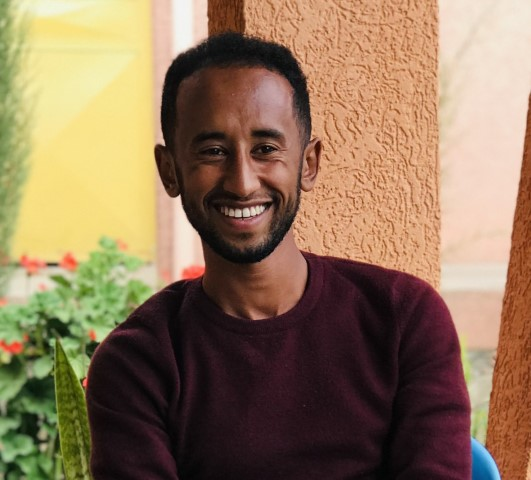
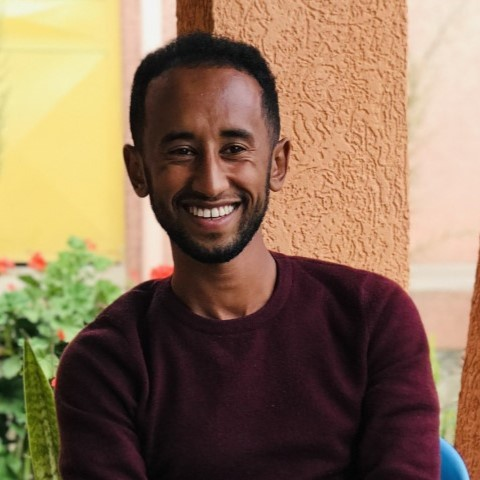
made styling updates

diff --git a/frontend-next/src/components/meet-the-team.js b/frontend-next/src/components/meet-the-team.js
@@ -1,5 +1,6 @@
 import Link from 'next/link'
 import Image from 'next/image'
+import { BsLinkedin } from 'react-icons/bs'
 
 function MeetTeam() {
   return (
@@ -24,7 +25,7 @@ function MeetTeam() {
           <div className="items-center bg-veryLightGray hover:bg-veryPaleRed dark:bg-gray-700 dark:hover:bg-gray-600 rounded-lg shadow sm:flex ">
             <div>
               <Image
-                className="w-full rounded-lg sm:rounded-none sm:rounded-l-lg"
+                className="w-full rounded-full"
                 src="/img/team/mikias2.jpg"
                 alt="Mikias Worash"
                 width={200}
@@ -33,12 +34,12 @@ function MeetTeam() {
             </div>
             <div className="p-5 ">
               <h3 className="text-xl font-bold">
-                <a href="#">Mikias Worash</a>
+                <a href="#">Mikias W.</a>
               </h3>
-              <span>CEO & Web Developer</span>
+              <span>MERN Stack Instructor </span>
               <p className="mt-3 mb-4 text-darkGrayishBlue dark:text-gray-300">
-                Develop strategic partnerships to expand reach and increase
-                enrollment
+                Experienced MERN instructor who is dedicated to guiding students
+                through the complexities of building full-stack web apps.
               </p>
               <ul className="flex space-x-4 sm:mt-0">
                 <li>
@@ -47,11 +48,7 @@ function MeetTeam() {
                     className="text-gray-500"
                     target="_blank"
                   >
-                    <img
-                      src="img/linkedin-svgrepo-com.svg"
-                      alt=""
-                      className="w-5 h-4"
-                    />
+                    <BsLinkedin className="w-5 h-5" />
                   </a>
                 </li>
                 <li>
@@ -97,7 +94,7 @@ function MeetTeam() {
           <div className="items-center bg-veryLightGray hover:bg-veryPaleRed dark:bg-gray-700 dark:hover:bg-gray-600 rounded-lg shadow sm:flex ">
             <div>
               <Image
-                className="w-full rounded-lg sm:rounded-none sm:rounded-l-lg"
+                className="w-full rounded-full"
                 src="/img/team/henok.jpg"
                 alt="Henok Setegne"
                 width={200}
@@ -106,21 +103,17 @@ function MeetTeam() {
             </div>
             <div className="p-5">
               <h3 className="text-xl font-bold">
-                <a href="#">Henok Setegne</a>
+                <a href="#">Henok S.</a>
               </h3>
-              <span>CTO & Web Developer</span>
+              <span>Data Science Instructor</span>
               <p className="mt-3 mb-4 text-darkGrayishBlue dark:text-gray-300">
-                Implement new technologies to enhance student learning
-                experience
+                Accomplished data science instructor with a wealth of experience
+                in the field, with both engaging and interactive style.
               </p>
               <ul className="flex space-x-4 sm:mt-0">
                 <li>
                   <a href="#" className="text-gray-500" target="_blank">
-                    <img
-                      src="img/linkedin-svgrepo-com.svg"
-                      alt=""
-                      className="w-5 h-4"
-                    />
+                    <BsLinkedin className="w-5 h-5" />
                   </a>
                 </li>
                 <li>
@@ -158,27 +151,24 @@ function MeetTeam() {
           <div className="items-center bg-veryLightGray hover:bg-veryPaleRed dark:bg-gray-700 dark:hover:bg-gray-600 rounded-lg shadow sm:flex ">
             <div>
               <img
-                class="w-full rounded-lg sm:rounded-none sm:rounded-l-lg"
+                class="w-full rounded-full"
                 src="https://flowbite.s3.amazonaws.com/blocks/marketing-ui/avatars/michael-gouch.png"
                 alt="Khalil Abdurehman"
               />
             </div>
             <div className="p-5">
               <h3 className="text-lg font-bold">
-                <a href="#">Khalil Abdurehman</a>
+                <a href="#">Khalil A.</a>
               </h3>
-              <span>COO & Web Developer</span>
+              <span>Python Instructor</span>
               <p className="mt-3 mb-4 text-darkGrayishBlue dark:text-gray-300">
-                Streamline operations to improve efficiency and reduce costs
+                Skilled and experienced instructor with extensive knowledge in
+                Python programming language.
               </p>
               <ul className="flex space-x-4 sm:mt-0">
                 <li>
                   <a href="#" className="text-gray-500" target="_blank">
-                    <img
-                      src="img/linkedin-svgrepo-com.svg"
-                      alt=""
-                      className="w-5 h-4"
-                    />
+                    <BsLinkedin className="w-5 h-5" />
                   </a>
                 </li>
                 <li>
@@ -216,28 +206,24 @@ function MeetTeam() {
           <div className="items-center bg-veryLightGray hover:bg-veryPaleRed dark:bg-gray-700 dark:hover:bg-gray-600 rounded-lg shadow sm:flex ">
             <div>
               <img
-                className="w-full rounded-lg sm:rounded-none sm:rounded-l-lg"
+                className="w-full rounded-full"
                 src="https://flowbite.s3.amazonaws.com/blocks/marketing-ui/avatars/michael-gouch.png"
                 alt="Ismail"
               />
             </div>
             <div className="p-5">
               <h3 className="text-lg font-bold">
-                <a href="#">Ismail Yimer</a>
+                <a href="#">Ismail Y.</a>
               </h3>
-              <span>CFO & Web Developer</span>
+              <span>UI/UX & MERN Instructor</span>
               <p className="mt-3 mb-4 text-darkGrayishBlue dark:text-gray-300">
-                Maximizing revenue and profitability while maintaining quality
-                education standards
+                Highly skilled UI/UX instructor who has a deep understanding of
+                how to create intuitive and user-friendly interfaces.
               </p>
               <ul className="flex space-x-4 sm:mt-0">
                 <li>
                   <a href="#" className="text-gray-500" target="_blank">
-                    <img
-                      src="img/linkedin-svgrepo-com.svg"
-                      alt=""
-                      className="w-5 h-4"
-                    />
+                    <BsLinkedin className="w-5 h-5" />
                   </a>
                 </li>
                 <li>

diff --git a/frontend-next/src/components/layout/navbar.js b/frontend-next/src/components/layout/navbar.js
@@ -5,9 +5,9 @@ import CourseContext from '../../context/CourseContext'
 import { FaSchool } from 'react-icons/fa'
 import { BsSearch } from 'react-icons/bs'
 import Link from 'next/link'
-import Alert from './Alert'
 import { MoonIcon, SunIcon } from '@heroicons/react/24/solid'
 import { useTheme } from 'next-themes'
+import { toast } from 'react-toastify'
 
 export default function Navbar() {
   const [mounted, setMounted] = useState(false)
@@ -26,7 +26,6 @@ export default function Navbar() {
     coursesData,
     searchCourses,
     clearResults,
-    setAlert,
   } = useContext(CourseContext)
 
   const handleChange = (e) => {
@@ -37,7 +36,7 @@ export default function Navbar() {
     e.preventDefault()
 
     if (courseTitle === '' && coursesData.success == null) {
-      setAlert('Please enter a title', 'error')
+      toast.error('Please enter a title')
     } else if (coursesData.count > 0 || coursesData.success === false) {
       clearResults()
     } else {
@@ -69,8 +68,8 @@ export default function Navbar() {
   }
 
   return (
-    <div className="fixed top-0 mb-80 mx-auto bg-veryLightGray border-b-solid border-b border-b-blue-100 dark:bg-veryDarkBlue dark:border-b-gray-600 w-full z-50 bg-opacity-95 dark:bg-opacity-90">
-      <nav className="relative container mx-auto p-2 lg:p-4">
+    <div className="fixed top-0 left-0 right-0 mb-80  bg-veryLightGray border-b-solid border-b border-b-blue-100 dark:bg-veryDarkBlue dark:border-b-gray-600 z-50 bg-opacity-95 dark:bg-opacity-90">
+      <nav className="relative w-full lg:mx-4 p-2 lg:p-4">
         {/* Flex Container */}
         <div className="flex items-center justify-between">
           {/*  Logo */}
@@ -79,7 +78,7 @@ export default function Navbar() {
             <FaSchool className="inline pr-2 text-3xl" />
             <Link
               href={'/'}
-              className="text-lg font-bold align-middle inline"
+              className="text-lg md:text-2xl font-bold align-middle inline"
               onClick={clearResults}
             >
               m-bootcamp
@@ -104,11 +103,10 @@ export default function Navbar() {
           {/* Search Form  */}
           <form onSubmit={handleSubmit}>
             <div className="hidden lg:flex space-x-3 relative">
-              <Alert />
-              <BsSearch className="absolute left-56 top-3" />
+              <BsSearch className="absolute left-10 top-3" />
               <input
                 type="text"
-                className="flex-1 px-3 rounded-lg lg:w-72 text-center focus:outline-none border-2 border-gray-300 dark:bg-gray-700 dark:border-gray-600"
+                className="px-3 rounded-lg lg:w-72 text-center focus:outline-none border-2 border-gray-300 dark:bg-gray-700 dark:border-gray-600"
                 placeholder="Search for Courses"
                 value={courseTitle}
                 onChange={handleChange}
@@ -127,7 +125,7 @@ export default function Navbar() {
           </form>
 
           {/*  Menu Items*/}
-          <div className="hidden lg:flex space-x-6">
+          <div className="hidden lg:flex space-x-6 mr-16">
             <a href="/#featured-courses" className="hover:text-primary-700">
               Courses
             </a>
@@ -249,7 +247,7 @@ export default function Navbar() {
       {currentPath == '/' ? (
         <div>
           <form onSubmit={handleSubmit}>
-            <div className="text-center lg:hidden space-x-3">
+            <div className="text-center lg:hidden mb-4 space-x-3">
               <input
                 type="text"
                 className="flex-1 px-3 py-2 rounded-lg md:w-64 text-center focus:outline-none border-2 border-gray-300 dark:bg-gray-700 dark:border-gray-600"
@@ -269,9 +267,6 @@ export default function Navbar() {
               )}
             </div>
           </form>
-          <div className="max-w-md mx-auto lg:hidden">
-            <Alert />
-          </div>
         </div>
       ) : (
         ''

diff --git a/frontend-next/src/components/layout/footer.js b/frontend-next/src/components/layout/footer.js
@@ -4,6 +4,11 @@ import Link from 'next/link'
 import { toast } from 'react-toastify'
 import { useState } from 'react'
 
+import { BsGithub } from 'react-icons/bs'
+import { BsLinkedin } from 'react-icons/bs'
+import { BsTwitter } from 'react-icons/bs'
+import { BsTelegram } from 'react-icons/bs'
+
 export default function Footer() {
   const { data: session, status } = useSession()
   const [email, setEmail] = useState('')
@@ -36,7 +41,7 @@ export default function Footer() {
         <div className="container flex flex-col-reverse justify-between px-6 py-10 mx-auto mt-32 space-y-8 lg:flex-row lg:space-y-0">
           {/*  Logo and social links container  */}
           <div className="flex flex-col-reverse items-center justify-between space-y-12 lg:flex-col lg:space-y-0 lg:items-start">
-            <div className="mx-auto my-6 text-center text-white lg:hidden">
+            <div className="mx-auto  my-6 text-center text-white lg:hidden">
               Copyright &copy; 2022 All Rights Reserved!
             </div>
             {/*  Logo  */}
@@ -45,7 +50,7 @@ export default function Footer() {
               <FaSchool className="inline pr-2 text-3xl text-white" />
               <Link
                 href={'/'}
-                className="text-white text-lg font-bold align-middle"
+                className="text-white text-2xl font-bold align-middle"
               >
                 m-bootcamp
               </Link>
@@ -53,24 +58,20 @@ export default function Footer() {
             {/*  Social Links  */}
             <div className="flex justify-center space-x-4">
               {/*  Link 1  */}
-              <a href="https://www.facebook.com" target="_blank">
-                <img src="img/icon-facebook.svg" alt="" className="h-8" />
+              <a href="https://www.linkedin.com" target="_blank">
+                <BsLinkedin className="h-6 w-6 text-white" />
               </a>
               {/*  Link 2  */}
-              <a href="https://www.youtube.com" target="_blank">
-                <img src="img/icon-youtube.svg" alt="" className="h-8" />
+              <a href="https://www.twitter.com" target="_blank">
+                <BsTwitter className="h-6 w-6 text-white" />
               </a>
               {/*  Link 3  */}
-              <a href="https://www.twitter.com" target="_blank">
-                <img src="img/icon-twitter.svg" alt="" className="h-8" />
+              <a href="https://www.github.com" target="_blank">
+                <BsGithub className="h-6 w-6 text-white" />
               </a>
               {/* Link 4  */}
-              <a href="https://www.pinterest.com" target="_blank">
-                <img src="img/icon-pinterest.svg" alt="" className="h-8" />
-              </a>
-              {/*  Link 5  */}
-              <a href="https://www.instagram.com" target="_blank">
-                <img src="img/icon-instagram.svg" alt="" className="h-8" />
+              <a href="https://www.telegram.com" target="_blank">
+                <BsTelegram className="h-6 w-6 text-white" />
               </a>
             </div>
           </div>

diff --git a/frontend-next/src/components/hero-section.js b/frontend-next/src/components/hero-section.js
@@ -31,20 +31,20 @@ export default function Hero() {
             <img
               src="img/cover1.jpg"
               alt="bootcamp img"
-              className="rounded-3xl mb-24 mt-24 w-full h-full ml-40 xl:hidden"
+              className="rounded-3xl mb-8 mt-8 w-full h-full ml-40 xl:hidden"
             />
             <div className="hidden xl:flex flex-row ml-16 space-x-24">
               <img
                 src="img/cover2.jpg"
                 alt="bootcamp img"
-                width={450}
-                className="rounded-2xl mb-40 mt-24 hidden xl:flex"
+                width={400}
+                className="rounded-2xl mb-40 mt-24 -rotate-12 hidden xl:flex"
               />
               <img
                 src="img/cover3.jpg"
                 alt="bootcamp img"
                 width={350}
-                className="rounded-2xl mb-24 mt-40 hidden xl:flex"
+                className="rounded-3xl self-center mt-8 rotate-12 hidden xl:flex"
               />
             </div>
           </div>

diff --git a/frontend-next/src/components/courses/CourseItem.js b/frontend-next/src/components/courses/CourseItem.js
@@ -10,7 +10,7 @@ function CourseItem({ course }) {
   const { _id, title, description, tuition, bootcamp, minimumSkill } = course
 
   return (
-    <div className="w-5/6 md:w-1/2 mx-auto">
+    <div className="w-5/6 md:w-[700px] lg:w-[900px] mx-auto">
       <Link href={`/courses/${_id}`}>
         <div className="flex items-center flex-col mt-24 mb-12">
           <div className="flex flex-col items-center p-12 space-y-2 rounded-lg bg-veryLightGray hover:bg-veryPaleRed dark:bg-gray-700 dark:hover:bg-gray-600">

diff --git a/frontend-next/src/components/features.js b/frontend-next/src/components/features.js
@@ -6,7 +6,7 @@ export default function Features() {
         {/* Flex container */}
         <div className="container flex flex-col px-4 mx-auto mt-10 space-y-12 md:space-y-0 md:flex-row">
           {/* What's different */}
-          <div className="flex flex-col space-y-12 md:w-1/2">
+          <div className="flex flex-col space-y-12 md:w-1/2 md:mt-24">
             <h2 className="max-w-md text-4xl font-bold text-center md:text-left">
               What's Different about our bootcamp?
             </h2>

diff --git a/frontend-next/src/styles/globals.css b/frontend-next/src/styles/globals.css
@@ -11,7 +11,7 @@ body {
 
 .hero {
   background-size: 800px;
-  background-position: 10px -190px;
+  background-position: 10px -150px;
 }
 
 /* Hamburger Menu */
